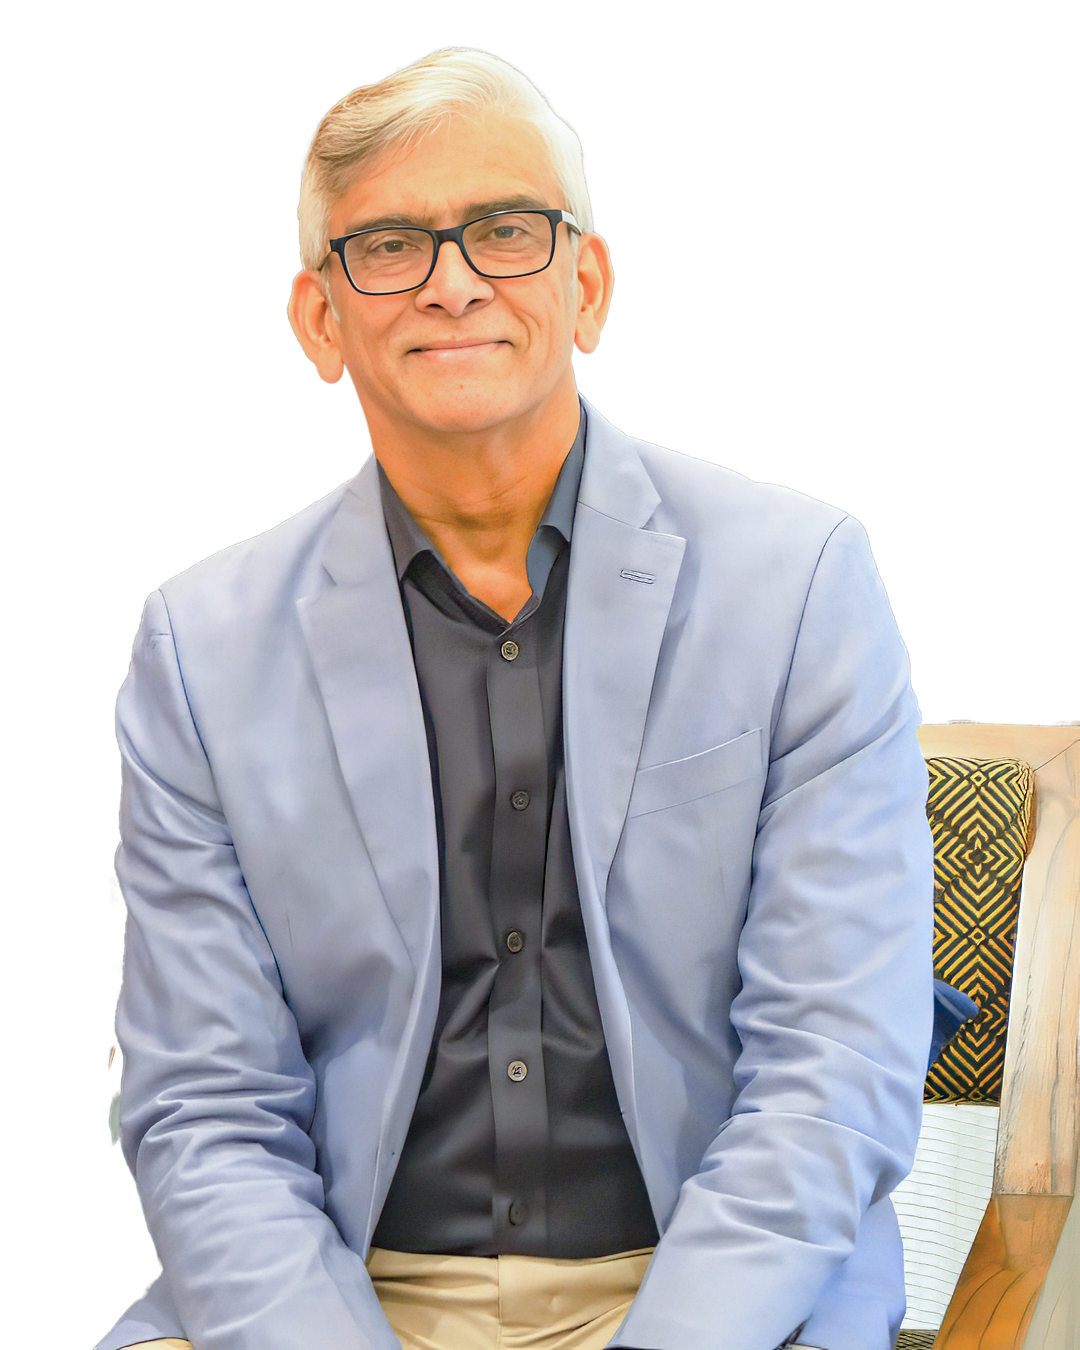
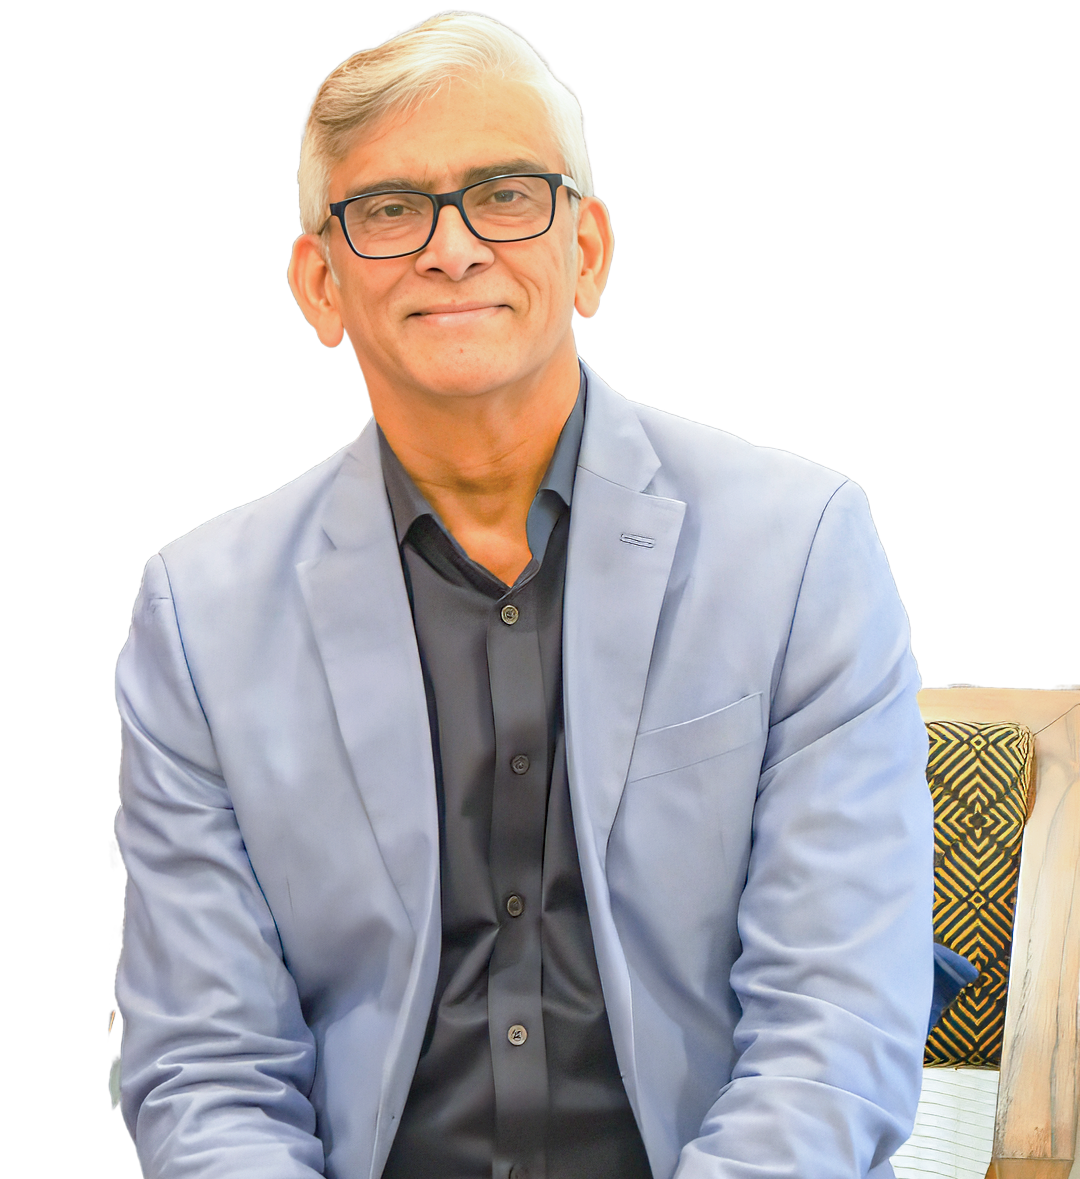
img

diff --git a/components/sections/about-preview.tsx b/components/sections/about-preview.tsx
@@ -20,12 +20,12 @@ export function AboutDoctorSection() {
           >
             <div className="rounded-3xl overflow-hidden shadow-xl">
               <Image
-                src="/images/dr2.png" // 👉 replace with actual image
-                alt="Dr Sanjay Chaurey"
-                width={600}
-                height={700}
-                className="w-full h-[420px] md:h-[520px] object-fit group-hover:scale-105 transition-transform duration-300"
-              />
+  src="/images/dr2.png"
+  alt="Dr Sanjay Chaurey"
+  width={600}
+  height={700}
+  className="w-full h-[420px] sm:h-[480px] md:h-[550px] object-cover object-top transition-transform duration-300"
+/>
             </div>
 
             {/* Floating badge */}
